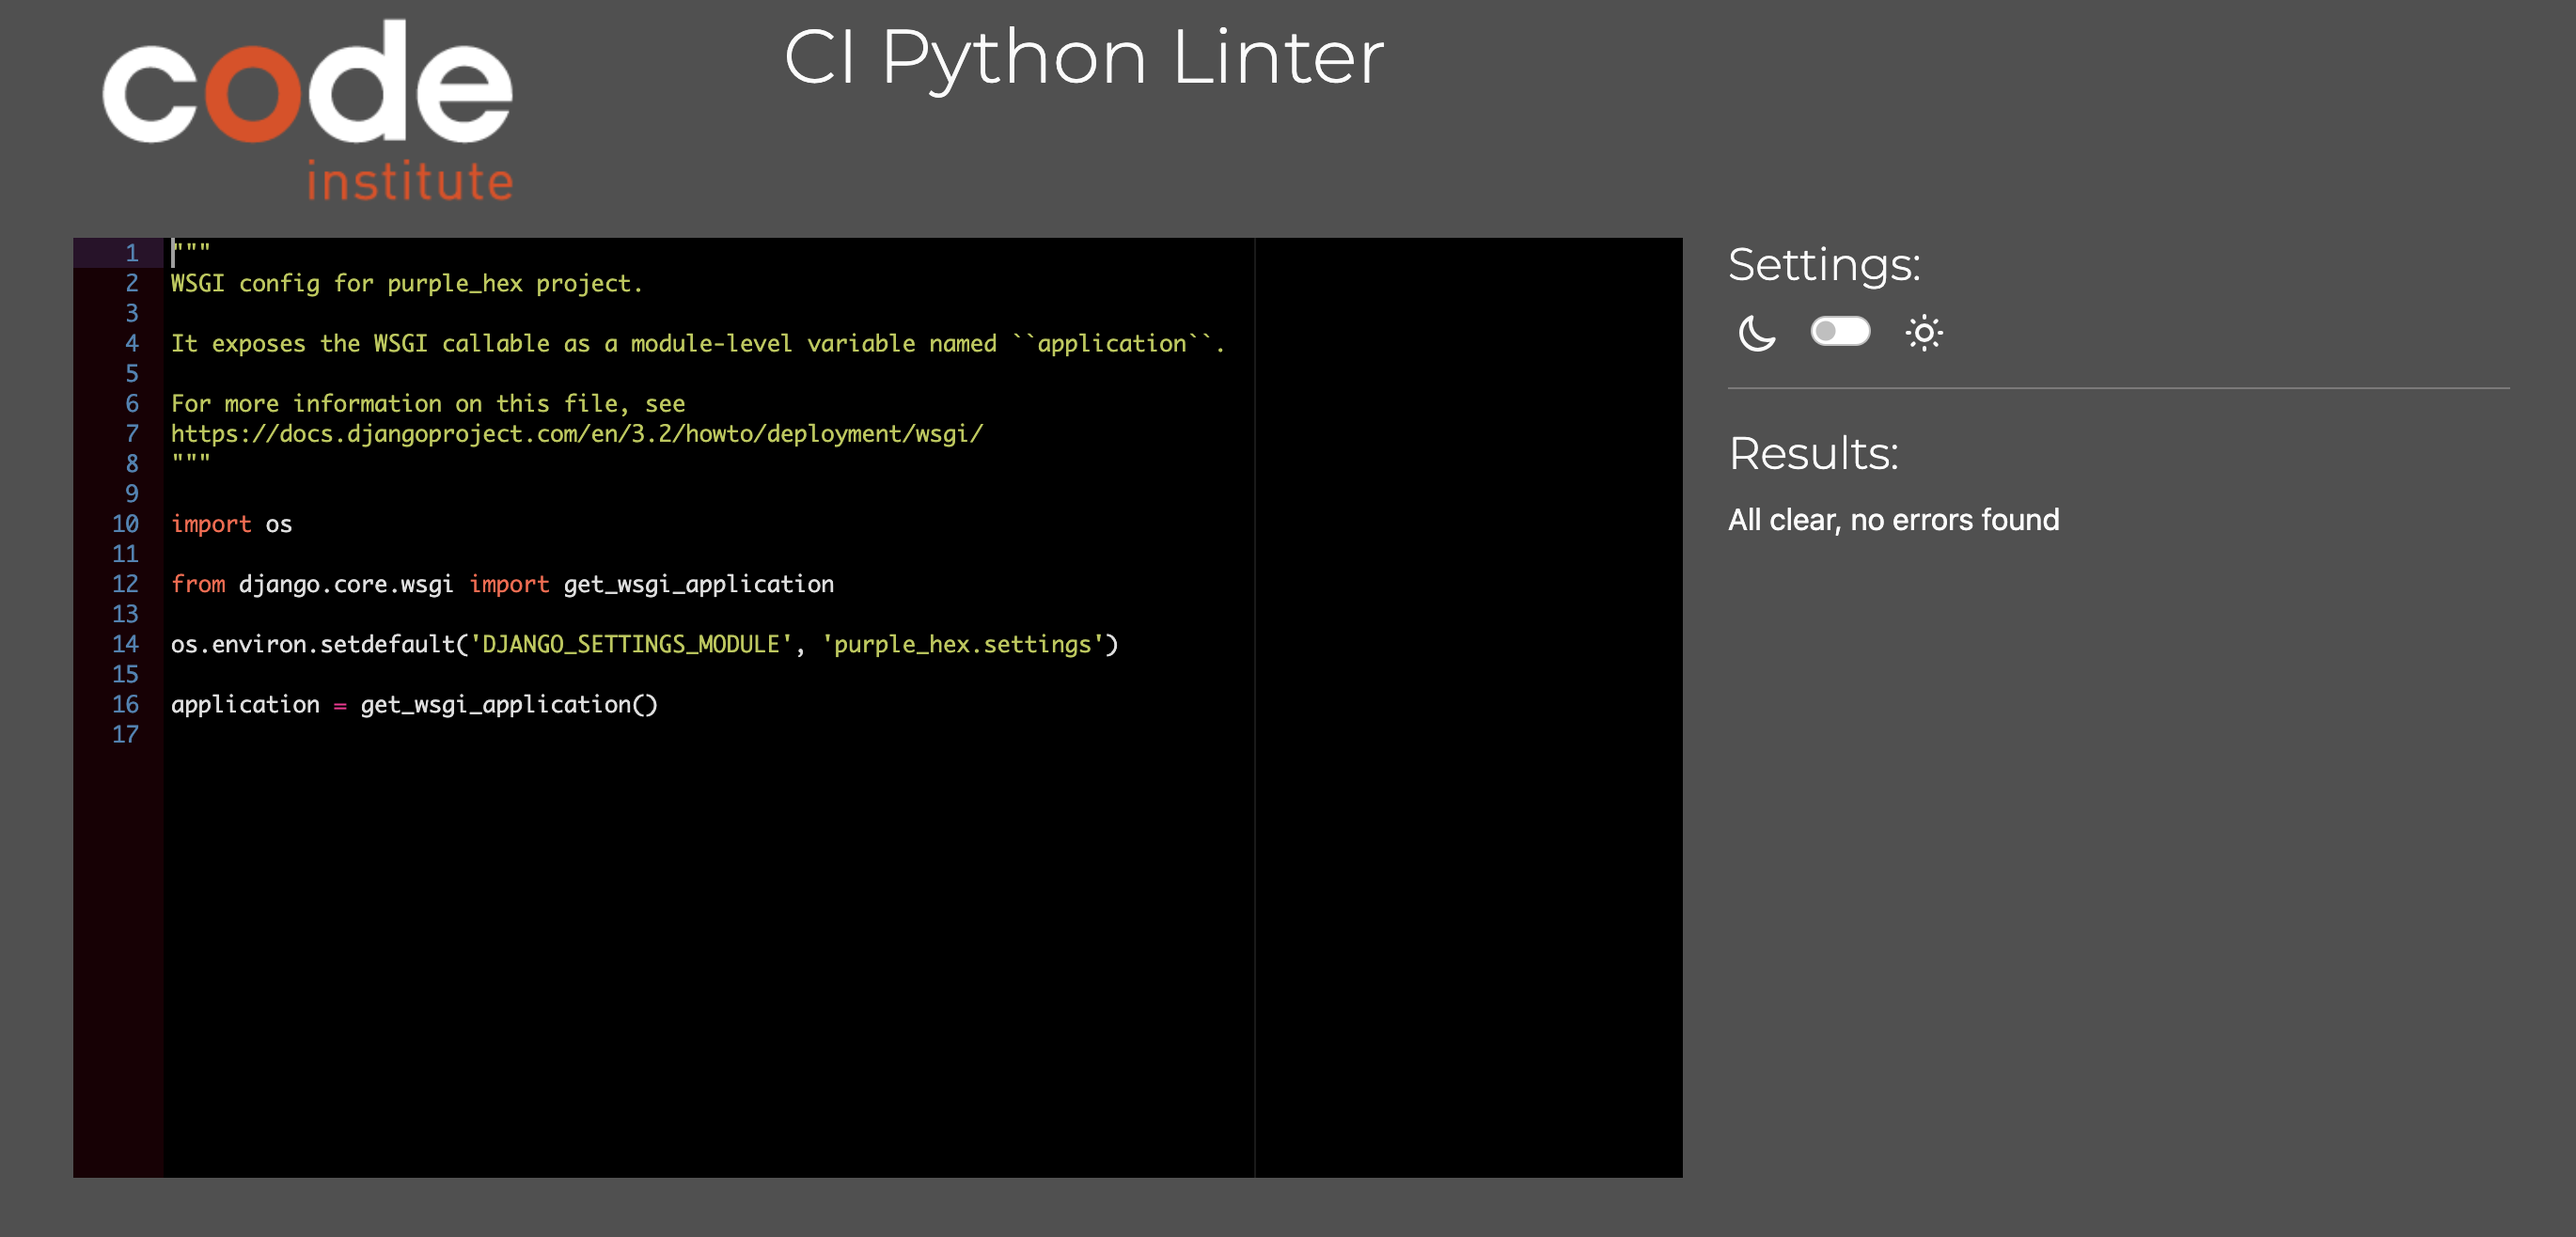
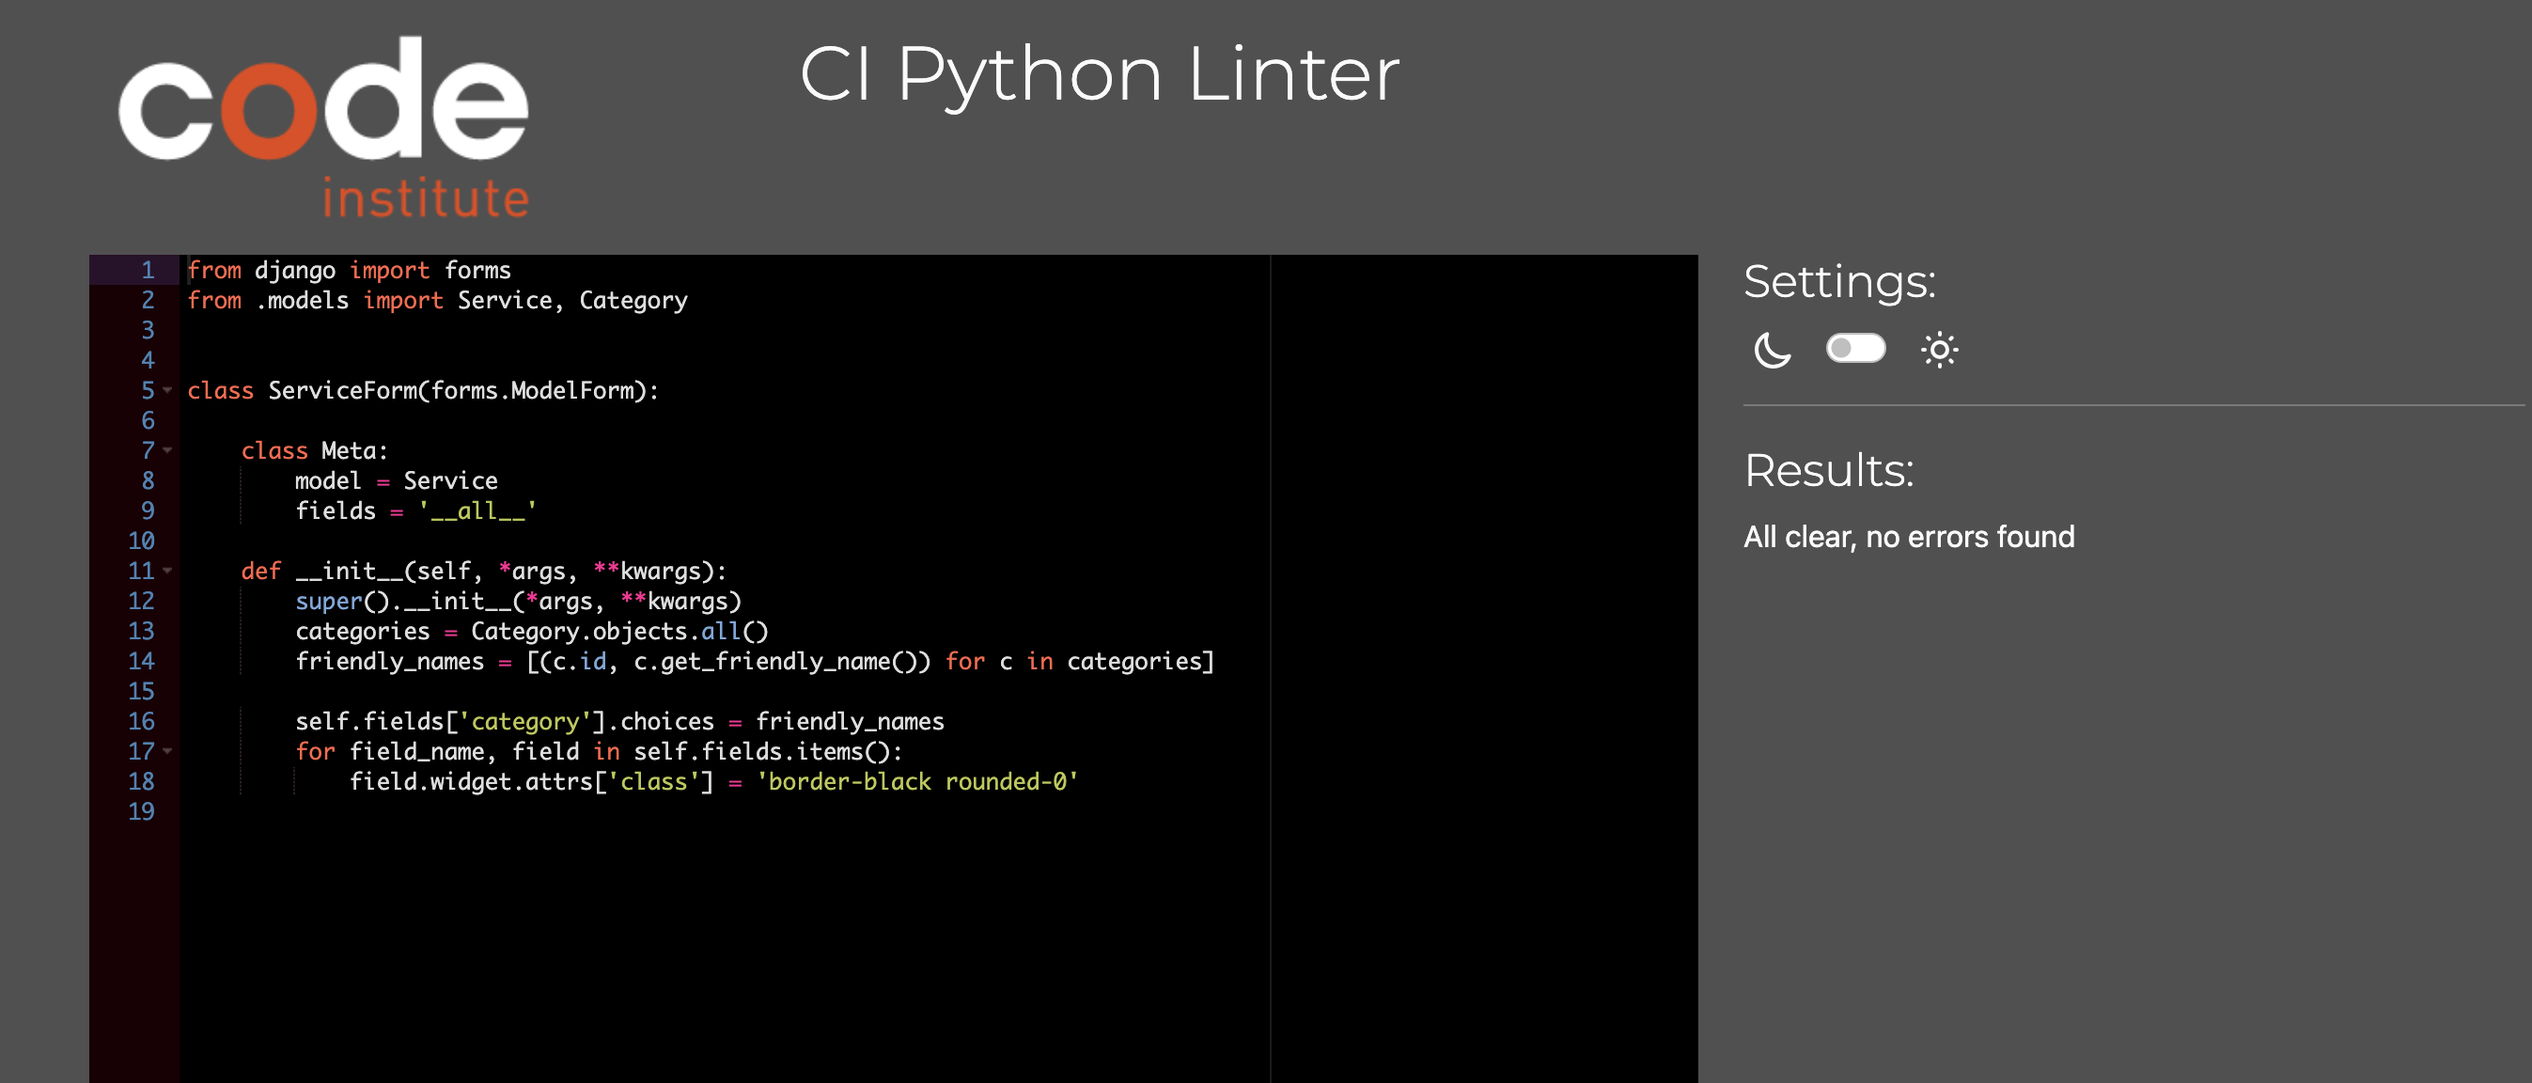
Add validation and links

Changed region(s): [[0.0312, 0.0, 0.8107, 1.0], [0.1247, 0.6562, 0.4053, 0.75], [0.3118, 0.0312, 0.5612, 0.0938]]

diff --git a/TESTING.md b/TESTING.md
@@ -40,7 +40,7 @@ This will give you a custom URL as well, which you can use on your testing docum
 It makes it easier to return back to the page to validate it again in the future.
 The URL will look something like this:
 
-- https://jigsaw.w3.org/css-validator/validator?uri=https%3A%2F%2FThomG1.github.io%2Fpurple-hex-studios
+- https://jigsaw.w3.org/css-validator/validator?uri=https%3A%2F%2Fpurple-hex-studios.herokuapp.com
 
 If you have multiple CSS files, then individual [validation by input](https://jigsaw.w3.org/css-validator/#validate_by_input)
 is recommended for the additional CSS files.
@@ -57,9 +57,7 @@ Sample CSS code validation documentation (tables are extremely helpful!):
 
 | File | Jigsaw URL | Screenshot | Notes |
 | --- | --- | --- | --- |
-| style.css | [Jigsaw](https://jigsaw.w3.org/css-validator/validator?uri=https%3A%2F%2FThomG1.github.io%2Fpurple-hex-studios) | ![screenshot](documentation/css-validation-style.png) | Pass: No Errors |
-| checkout.css | n/a | ![screenshot](documentation/css-validation-checkout.png) | Pass: No Errors |
-| x | x | x | repeat for all remaining CSS files |
+| style.css | [Jigsaw](https://jigsaw.w3.org/css-validator/validator?uri=https%3A%2F%2Fpurple-hex-studios.herokuapp.com) | ![screenshot](documentation/css-validation-style.png) | Pass: No Errors |
 
 ### JavaScript
 
@@ -82,7 +80,7 @@ I have used the recommended [PEP8 CI Python Linter](https://pep8ci.herokuapp.com
 | Purple Hex urls.py | [PEP8 CI](https://pep8ci.herokuapp.com/https://raw.githubusercontent.com/ThomG1/purple-hex-studios/main/purple_hex/urls.py) | ![screenshot](documentation/py-validation-urls.png) | Pass: No Errors |
 | Services admin.py | [PEP8 CI](https://pep8ci.herokuapp.com/https://raw.githubusercontent.com/ThomG1/purple-hex-studios/main/services/admin.py) | ![screenshot](documentation/py-validation-services-admin.png) | Pass: No Errors |
 | Services apps.py | [PEP8 CI](https://pep8ci.herokuapp.com/https://raw.githubusercontent.com/ThomG1/purple-hex-studios/main/services/apps.py) | ![screenshot](documentation/py-validation-services-apps.png) | Pass: No Errors |
-| Services forms.py | [PEP8 CI](https://pep8ci.herokuapp.com/https://raw.githubusercontent.com/ThomG1/purple-hex-studios/main/purple_hex/wsgi.py) | ![screenshot](documentation/py-validation-services-forms.png) | Pass: No Errors |
+| Services forms.py | [PEP8 CI](https://pep8ci.herokuapp.com/https://raw.githubusercontent.com/ThomG1/purple-hex-studios/main/services/forms.py) | ![screenshot](documentation/py-validation-services-forms.png) | Pass: No Errors |
 | Services models.py | [PEP8 CI](https://pep8ci.herokuapp.com/https://raw.githubusercontent.com/ThomG1/purple-hex-studios/main/services/models.py) | ![screenshot](documentation/py-validation-services-models.png) | Pass: No Errors |
 | Services urls.py | [PEP8 CI](https://pep8ci.herokuapp.com/https://raw.githubusercontent.com/ThomG1/purple-hex-studios/main/services/urls.py) | ![screenshot](documentation/py-validation-services-urls.png) | Pass: No Errors |
 | Services views.py | [PEP8 CI](https://pep8ci.herokuapp.com/https://raw.githubusercontent.com/ThomG1/purple-hex-studios/main/services/views.py) | ![screenshot](documentation/py-validation-services-views.png) | Pass: No Errors |
@@ -90,6 +88,7 @@ I have used the recommended [PEP8 CI Python Linter](https://pep8ci.herokuapp.com
 | Bag contexts.py | [PEP8 CI](https://pep8ci.herokuapp.com/https://raw.githubusercontent.com/ThomG1/purple-hex-studios/main/bag/contexts.py) | ![screenshot](documentation/py-validation-bag-contexts.png) | Pass: No Errors |
 | Bag urls.py | [PEP8 CI](https://pep8ci.herokuapp.com/https://raw.githubusercontent.com/ThomG1/purple-hex-studios/main/bag/urls.py) | ![screenshot](documentation/py-validation-bag-urls.png) | Pass: No Errors |
 | Bag views.py | [PEP8 CI](https://pep8ci.herokuapp.com/https://raw.githubusercontent.com/ThomG1/purple-hex-studios/main/bag/views.py) | ![screenshot](documentation/py-validation-bag-views.png) | Pass: No Errors |
+| Bag bag_tools.py | [PEP8 CI](https://pep8ci.herokuapp.com/https://raw.githubusercontent.com/ThomG1/purple-hex-studios/main/bag/templatetags/bag_tools.py) | ![screenshot](documentation/py-validation-bag-views.png) | Pass: No Errors |
 | Checkout admin.py | [PEP8 CI](https://pep8ci.herokuapp.com/https://raw.githubusercontent.com/ThomG1/purple-hex-studios/main/checkout/admin.py) | ![screenshot](documentation/py-validation-checkout-admin.png) | Pass: No Errors |
 | Checkout apps.py | [PEP8 CI](https://pep8ci.herokuapp.com/https://raw.githubusercontent.com/ThomG1/purple-hex-studios/main/checkout/apps.py) | ![screenshot](documentation/py-validation-checkout-apps.png) | Pass: No Errors |
 | Checkout forms.py | [PEP8 CI](https://pep8ci.herokuapp.com/https://raw.githubusercontent.com/ThomG1/purple-hex-studios/main/checkout/forms.py) | ![screenshot](documentation/py-validation-checkout-forms.png) | Pass: No Errors |
@@ -116,35 +115,6 @@ I have used the recommended [PEP8 CI Python Linter](https://pep8ci.herokuapp.com
 | Examples models.py | [PEP8 CI](https://pep8ci.herokuapp.com/https://raw.githubusercontent.com/ThomG1/purple-hex-studios/main/examples/models.py) | ![screenshot](documentation/py-validation-examples-models.png) | Pass: No Errors |
 | Examples urls.py | [PEP8 CI](https://pep8ci.herokuapp.com/https://raw.githubusercontent.com/ThomG1/purple-hex-studios/main/examples/urls.py) | ![screenshot](documentation/py-validation-examples-urls.png) | Pass: No Errors |
 | Examples views.py | [PEP8 CI](https://pep8ci.herokuapp.com/https://raw.githubusercontent.com/ThomG1/purple-hex-studios/main/examples/views.py) | ![screenshot](documentation/py-validation-examples-views.png) | Pass: No Errors |
-
-
-
-| x | x | x | repeat for all remaining Python files |
-
-**IMPORTANT**: Django settings.py
-
-The Django settings.py file comes with 4 lines that are quite long, and will throw the `E501 line too long` error.
-This is default behavior, but can be fixed by adding `# noqa` to the end of those lines.
-
-Example:
-
-```python
-AUTH_PASSWORD_VALIDATORS = [
-    {
-        "NAME": "django.contrib.auth.password_validation.UserAttributeSimilarityValidator",  # noqa
-    },
-    {
-        "NAME": "django.contrib.auth.password_validation.MinimumLengthValidator",  # noqa
-    },
-    {
-        "NAME": "django.contrib.auth.password_validation.CommonPasswordValidator",  # noqa
-    },
-    {
-        "NAME": "django.contrib.auth.password_validation.NumericPasswordValidator",  # noqa
-    },
-]
-```
-
 
 ## Browser Compatibility
 
@@ -179,7 +149,6 @@ I've tested my deployed project using the Lighthouse Audit tool to check for any
 | Services | Desktop | ![screenshot](documentation/lighthouse-services-desktop.png) | Few warnings |
 | Bag | Desktop | ![screenshot](documentation/lighthouse-bag-desktop.png) | Minor Warnings |
 | Checkout | Desktop | ![screenshot](documentation/lighthouse-checkout-desktop.png) | Slow response time due to large images |
-| x | x | x | repeat for any other tested pages/sizes |
 
 ## Defensive Programming
 
@@ -269,7 +238,23 @@ Defensive programming was manually tested with the below user acceptance testing
 | As a site administrator, I should be able to delete exisiting services, so that I can meet the needs of the studio. | ![screenshot](documentation/feature11.png) |
 | As a site administrator, I should be able to keep track of my orders, so that I can analyse the data. | ![screenshot](documentation/feature12.png) |
 
+## Bugs
 
-### GitHub **Issues**
+### Fixed Bugs
+
+- *The Contact could not be created because the data didn't validate.*
+
+![screenshot of Contact error](documentation/contact-error.png)
+
+When submitting the Contact form, this error happened. To fix this, I added the missing `()` on the views.py file for `is_valid()`
+
+```python
+if form.is_valid():
+    form.save()
+    messages.success(request, 'Message sent')
+    return redirect(reverse("contact"))
+```
+
+### Remaining Bugs
 
 There are no remaining bugs that I am aware of.

diff --git a/README.md b/README.md
@@ -138,7 +138,6 @@ I've used [Balsamiq](https://balsamiq.com/wireframes) to design my site wirefram
 - [Python](https://www.python.org) used as the back-end programming language.
 - [Git](https://git-scm.com) used for version control. (`git add`, `git commit`, `git push`)
 - [GitHub](https://github.com) used for secure online code storage.
-- [GitHub Pages](https://pages.github.com) used for hosting the deployed front-end site.
 - [Gitpod](https://gitpod.io) used as a cloud-based IDE for development.
 - [Bootstrap](https://getbootstrap.com) used as the front-end CSS framework for modern responsiveness and pre-built components.
 - [Django](https://www.djangoproject.com) used as the Python framework for the site.
@@ -153,57 +152,38 @@ I've used [Balsamiq](https://balsamiq.com/wireframes) to design my site wirefram
 Entity Relationship Diagrams (ERD) help to visualize database architecture before creating models.
 Understanding the relationships between different tables can save time later in the project.
 
-⚠⚠⚠⚠⚠ START OF NOTES (to be deleted) ⚠⚠⚠⚠⚠
+### **Custom Models**
 
-Using your defined models (one example below), create an ERD with the relationships identified.
-
-🛑🛑🛑🛑🛑 END OF NOTES (to be deleted) 🛑🛑🛑🛑🛑
+**Contact**
 
 ```python
-class Service(models.Model):
-    category = models.ForeignKey(
-        "Category", null=True, blank=True, on_delete=models.SET_NULL)
-    sku = models.CharField(max_length=254, null=True, blank=True)
-    name = models.CharField(max_length=254)
-    description = models.TextField()
-    price = models.DecimalField(max_digits=6, decimal_places=2)
-    rating = models.DecimalField(
-        max_digits=6, decimal_places=2, null=True, blank=True)
-    image_url = models.URLField(max_length=1024, null=True, blank=True)
-    image = models.ImageField(null=True, blank=True)
+class Contact(models.Model):
+    name = models.CharField(max_length=100, null=False, blank=False)
+    email = models.EmailField(null=False, blank=False)
+    message = models.TextField(null=False, blank=False)
 
     def __str__(self):
         return self.name
 ```
 
-⚠⚠⚠⚠⚠ START OF NOTES (to be deleted) ⚠⚠⚠⚠⚠
+**Examples**
 
-A couple recommendations for building free ERDs:
-- [Draw.io](https://draw.io)
-- [Lucidchart](https://www.lucidchart.com/pages/ER-diagram-symbols-and-meaning)
+```python
+class Example(models.Model):
+    """
+    Example model
+    """
+    name = models.CharField(max_length=150)
+    image = models.ImageField(upload_to='examples')
+    link = models.URLField(max_length=200)
 
-🛑🛑🛑🛑🛑 END OF NOTES (to be deleted) 🛑🛑🛑🛑🛑
+    def __str__(self):
+        return self.name
+```
+
+I've also used `django-extensions` and `pygraphviz` to auto-generate the entire application's ERD:
 
 ![screenshot](documentation/erd.png)
-
-⚠⚠⚠⚠⚠ START OF NOTES (to be deleted) ⚠⚠⚠⚠⚠
-
-Using Markdown formatting to represent an example ERD table using the Service model above:
-
-🛑🛑🛑🛑🛑 END OF NOTES (to be deleted) 🛑🛑🛑🛑🛑
-
-- Table: **Service**
-
-    | **PK** | **id** (unique) | Type | Notes |
-    | --- | --- | --- | --- |
-    | **FK** | category | ForeignKey | FK to **Category** model |
-    | | sku | CharField | |
-    | | name | CharField | |
-    | | description | TextField | |
-    | | price | DecimalField | |
-    | | rating | DecimalField | |
-    | | image_url | URLField | |
-    | | image | ImageField | |
 
 ## Testing
 
@@ -528,7 +508,7 @@ You can fork this repository by using the following steps:
 | [Markdown Builder](https://traveltimn.github.io/markdown-builder) | README and TESTING | tool to help generate the Markdown files |
 | [W3Schools](https://www.w3schools.com/howto/howto_css_glowing_text.asp) | Header | Glowing text in header |
 | [WhiteNoise](http://whitenoise.evans.io) | entire site | hosting static files on Heroku temporarily |
-| [WhiteNoise](http://whitenoise.evans.io) | entire site | hosting static files on Heroku temporarily |
+
 
 ### Media
 
